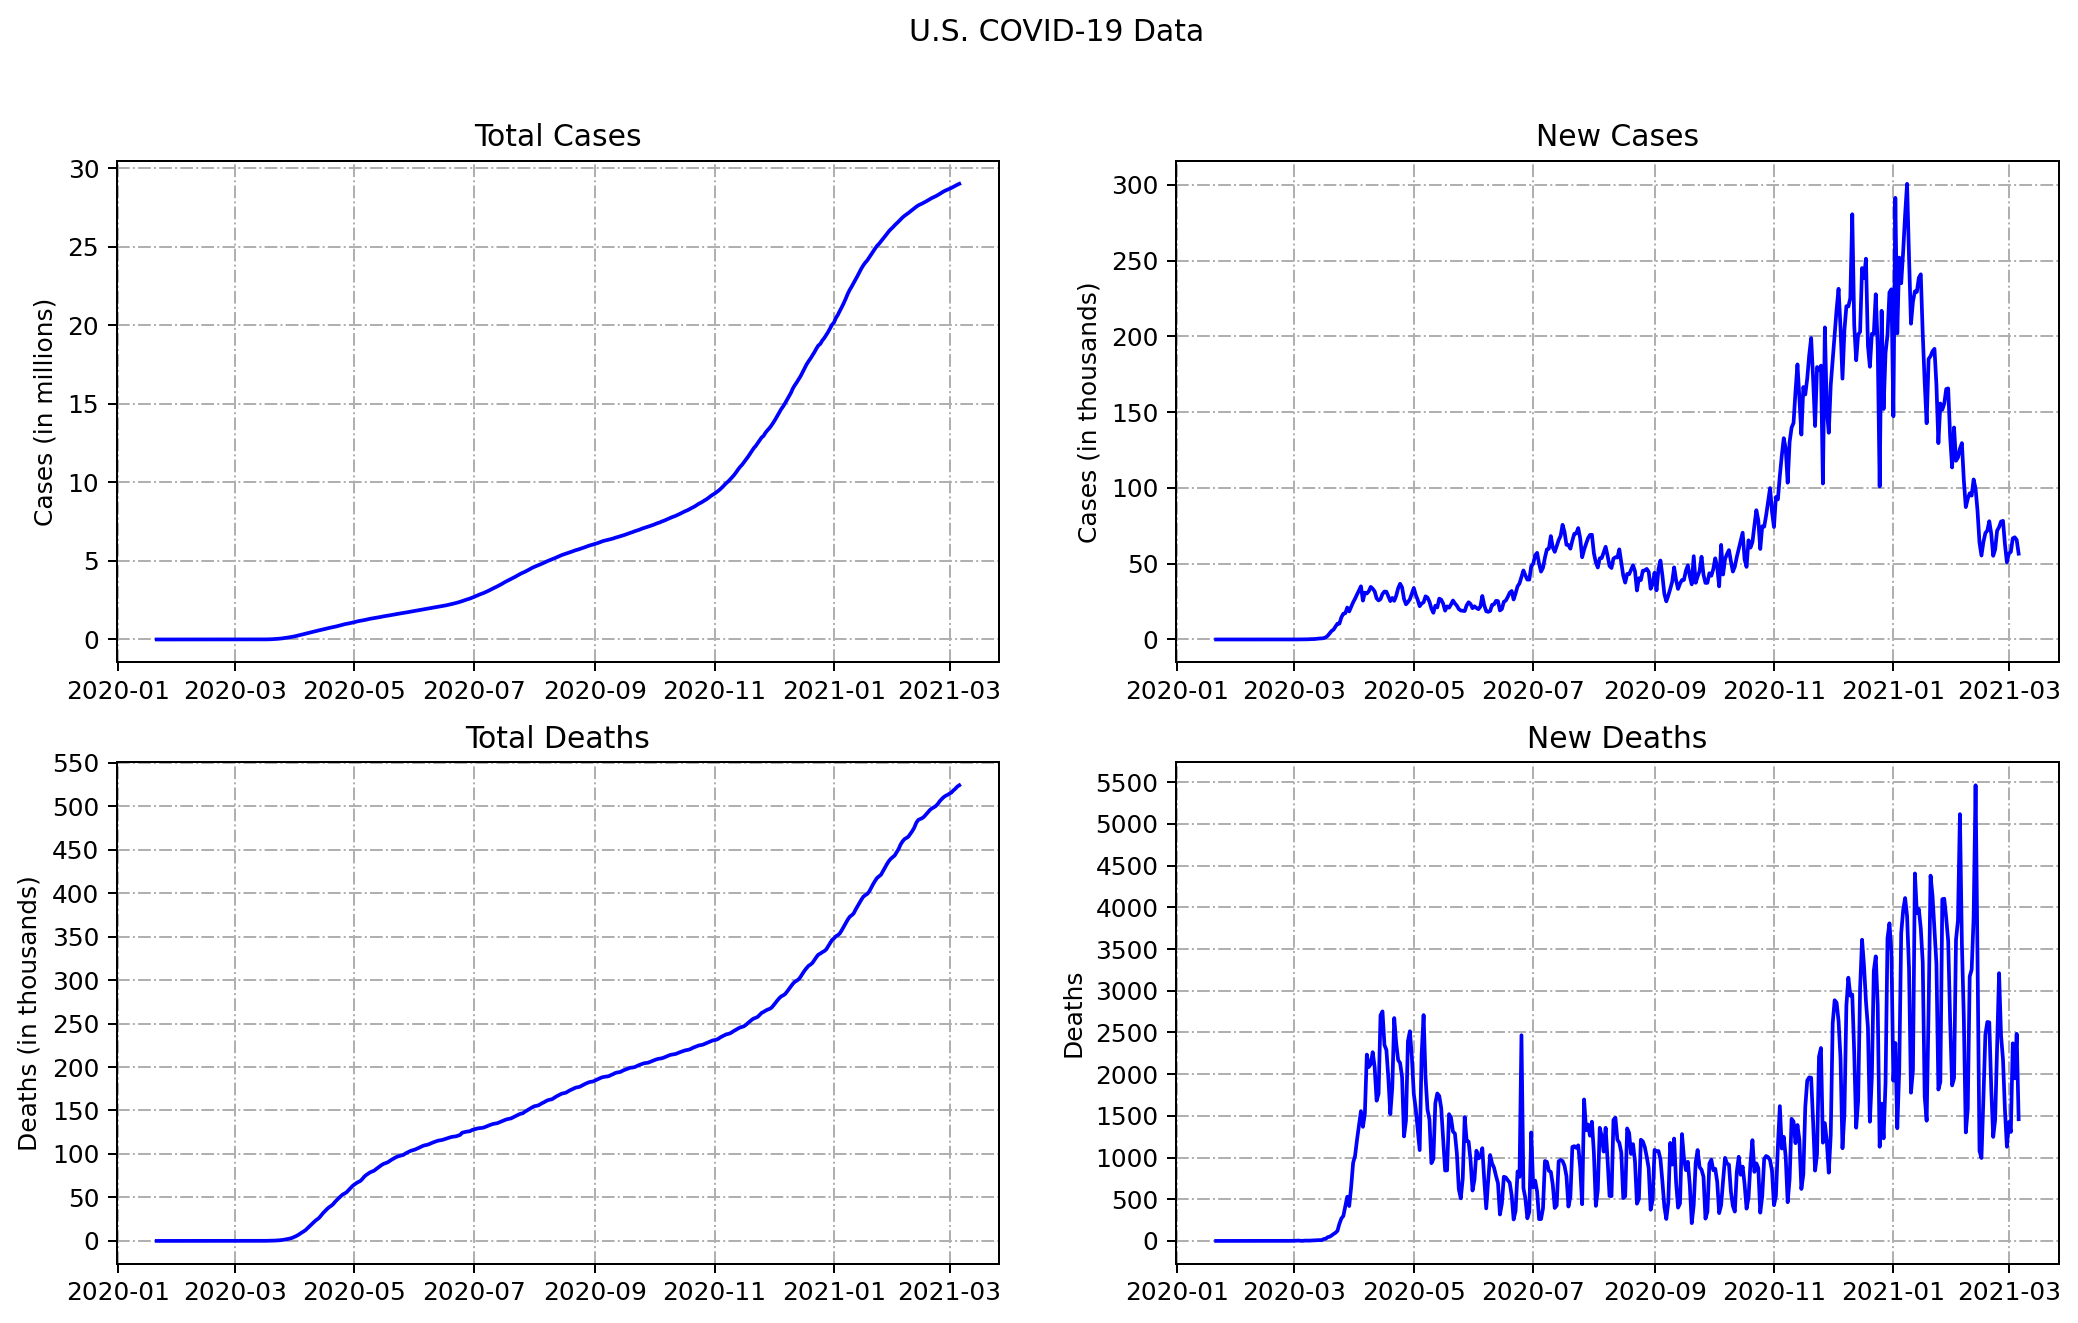
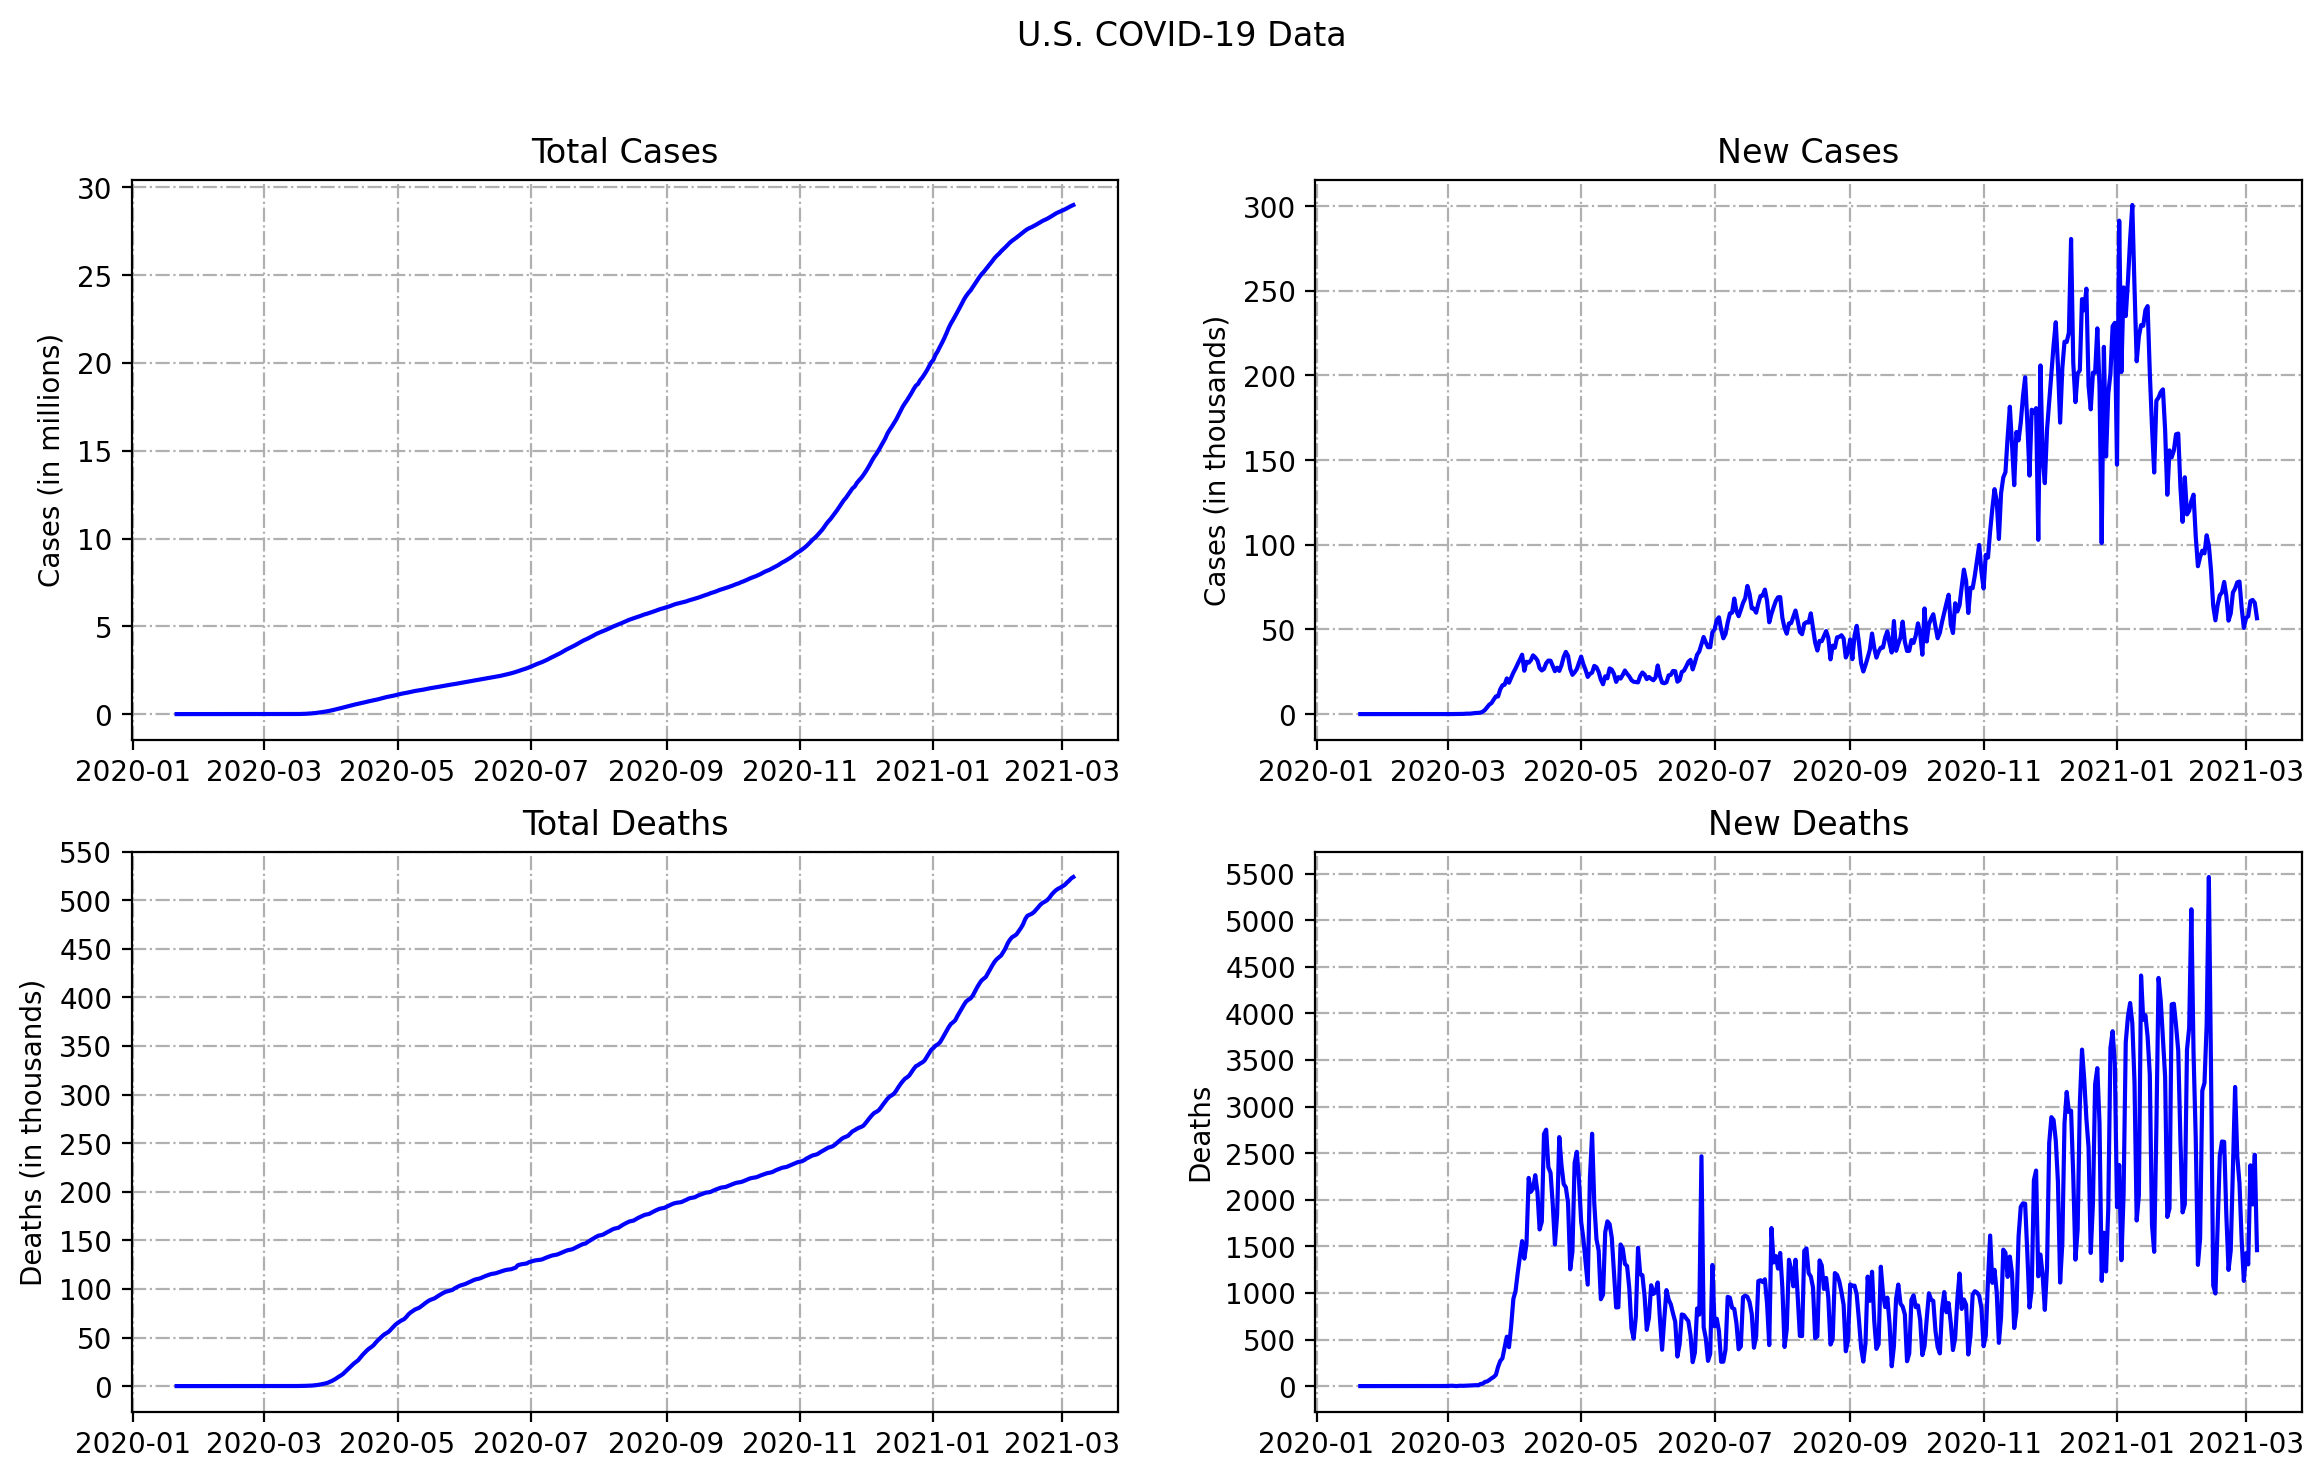
Updating data.

diff --git a/main.py b/main.py
@@ -71,7 +71,7 @@ def retry(acc, error):
         print("max retries exceeded")
         exit(1)
 
-def us_arrays(dat):
+def arrays(dat):
     df = pd.read_csv(io.StringIO(dat.decode('utf-8')))
     dates = np.array(df['date'], dtype='datetime64')
     total_cases = np.array(df['cases'], dtype='int64')
@@ -94,7 +94,7 @@ def write_us():
 
 def plot():
     print(f"writing to 'us.png'") 
-    fig, axes = plt.subplots(2, 2, figsize=(14, 8), dpi=179)
+    fig, axes = plt.subplots(2, 2, figsize=(14, 8), dpi=200)
     fig.suptitle('U.S. COVID-19 Data')
     x = dates
     y = total_cases / 1000000
@@ -167,7 +167,7 @@ def write_readme(template, date, df):
     with open('README.md', 'w') as f:
         f.write(template.format(date, df))
 
-def write_states(states, df):
+def write_states(df, states):
     mk_dir('states')
     print(f"writing to '{os.path.join(os.getcwd(), 'states')}'")
     d = df
@@ -191,7 +191,7 @@ def mk_dir(*dirs):
             print(f"creating '{os.path.join(os.getcwd(), d)}'")
             os.mkdir(d)
 
-def ls(df, suffix):
+def parse(df, suffix):
     df = df.sort_values(by=[suffix])
     df = df[suffix]
     df = df.drop_duplicates()
@@ -225,15 +225,15 @@ while True:
             break
     
     if nat != False:
-        dates, total_cases, total_deaths, new_cases, new_deaths = us_arrays(nat) 
+        dates, total_cases, total_deaths, new_cases, new_deaths = arrays(nat) 
         write_us()
         plot()
         update_readme()
 
     if stat != False:
         df = pd.read_csv(io.StringIO(stat.decode('utf-8')))
-        states = ls(df, 'state')
-        write_states(states, df)
+        states = parse(df, 'state')
+        write_states(df, states)
 
     push_git() 
 

diff --git a/README.md b/README.md
@@ -1,4 +1,4 @@
-###### Updated March 07, 2021, 3:14 P.M EST
+###### Updated March 07, 2021, 3:40 P.M EST
 # US COVID-19 Data 
 ###### [ [U.S. Data](us.csv) ([Raw CSV](https://raw.githubusercontent.com/drebrb/covid-19-data/master/us.csv)) | [U.S. State-Level Data](states) ]
 | U.S    | Total Reported   | On March 06   | 7-Day Average   |
